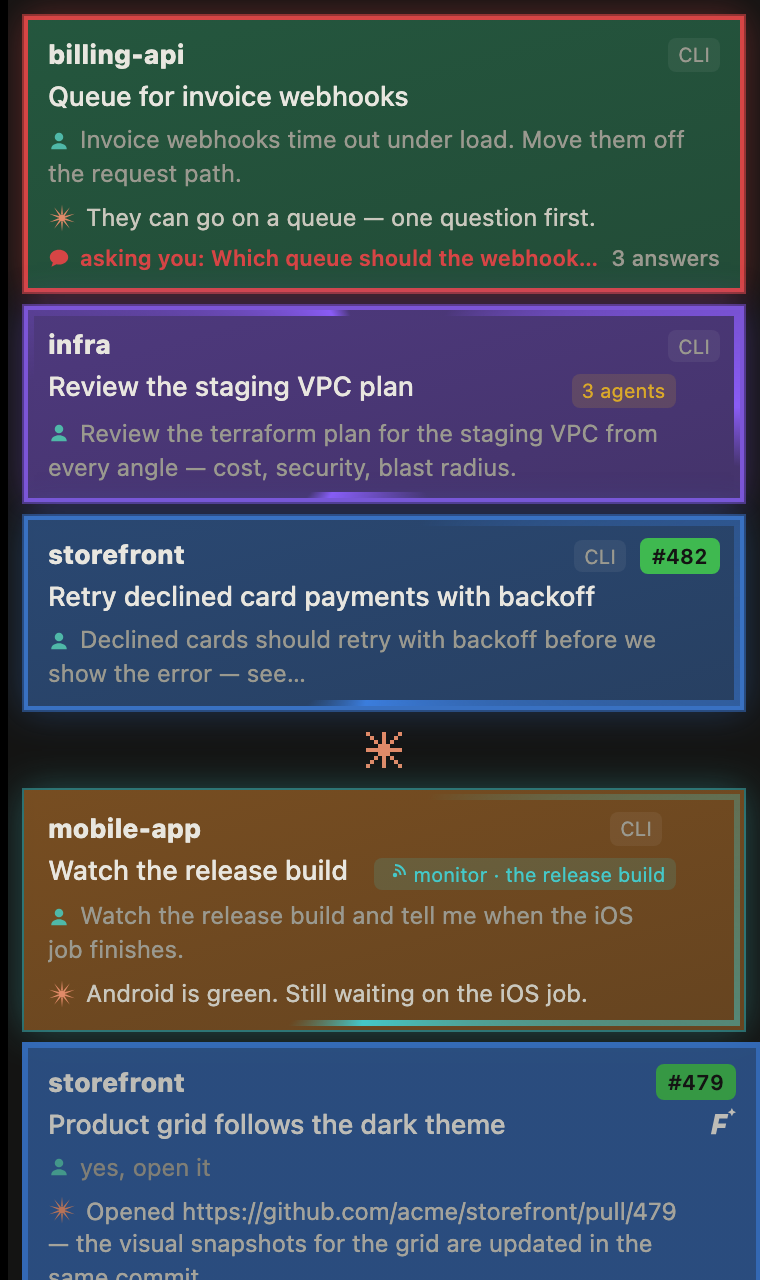
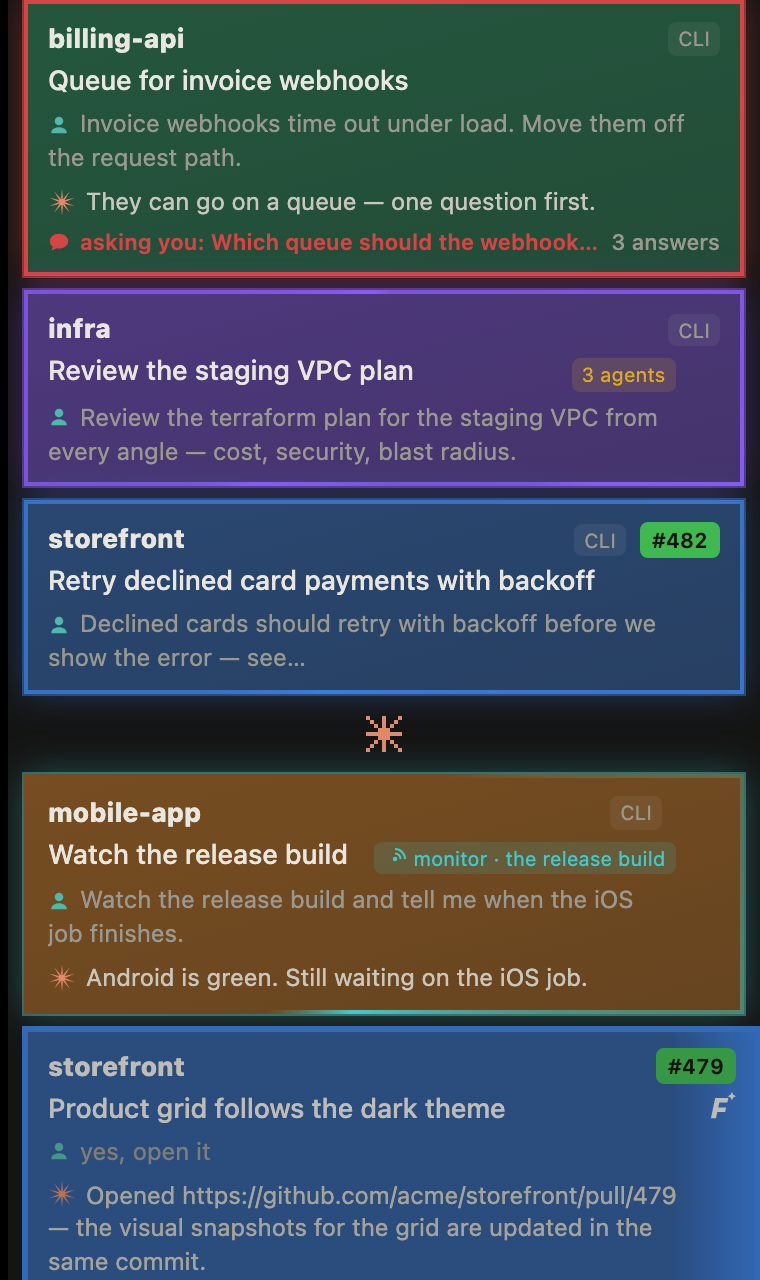
The README's screenshots from today's board, colourful and simple
Ricardo: "update the readme screenshot with current UI and show case
both colorful version and the simple color (black) version".

readme-shots.mjs turns simple colours on at the end and shoots the same
made-up board again, dark and light (docs/shots/simple-*.png); every
other shot is redrawn from the current page. The README gains a simple
colours feature line and shows the simple board full width right under
the board in colour, each following the reader's theme.

diff --git a/README.md b/README.md
@@ -17,6 +17,13 @@
   <img src="docs/shots/board-light.png" alt="The board: chat cards coloured by project on the left, the open chat on the right">
 </picture>
 
+<p align="center"><sub>Every project in its colour — or, with <b>simple colours</b> on (Settings › Board), every project in black and the states in grey:</sub></p>
+
+<picture>
+  <source media="(prefers-color-scheme: dark)" srcset="docs/shots/simple-dark.png">
+  <img src="docs/shots/simple-light.png" alt="The same board with simple colours: every project in black, the states in grey, the PRs and the question still in colour">
+</picture>
+
 It reads what Claude Code already writes to `~/.claude` — no plugin, no private API, and it never writes there.
 
 ## ✨ Features
@@ -31,6 +38,8 @@ It reads what Claude Code already writes to `~/.claude` — no plugin, no privat
   fills in, notifies you and brings its ticked chat back when it's your move again — a push, a reply, a review.
 - 🎨 **Projects** — folders in their [Peacock](https://marketplace.visualstudio.com/items?itemName=johnpapa.vscode-peacock)
   colour, or named sets of folders.
+- 🌑 **Simple colours** — a quieter board: every project in black (or one colour you pick), the states in grey; PRs
+  and faces keep their colours, and the accent is left for what needs you.
 - 🪟 **Tabs and splits** — a shell, VS Code Web and GitHub pages beside the chat.
 - 📊 **Plan usage** — your session and weekly limits, always in view.
 

diff --git a/docs/DECISIONS.md b/docs/DECISIONS.md
@@ -107,6 +107,10 @@ simple colors?"
 * **Black is the default** (and again: "leave black as the default color when picking the 'simple color' option"):
   with no colour picked, simple colours paint every project black (`simpleTint()`), not grey; ⌥-click on the swatch
   or the header's square goes back to black. Grey is still a colour the picker can choose.
+* **The README shows both** (and: "update the readme screenshot with current UI and show case both colorful version
+  and the simple color (black) version"): `scripts/readme-shots.mjs` turns the switch on last and shoots the same
+  board again (`docs/shots/simple-*.png`), and the README shows it full width right under the board in colour, each
+  in the reader's theme (side by side in the features table first, at 380 px, it went unseen).
 * **The accent is kept for what wants you**: a question's blinking edge (`--needs` is the accent here, not red),
   *your move*, the unread count, the focus ring, the selection, links. Claude's ✳ on every card and a Fable chat's F,
   which wore it as decoration, go grey; Claude's pixel mark between the clauding and the ready cards keeps it — one per
